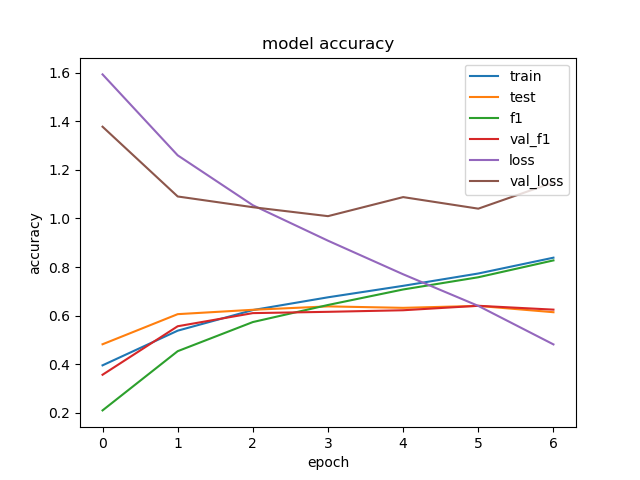
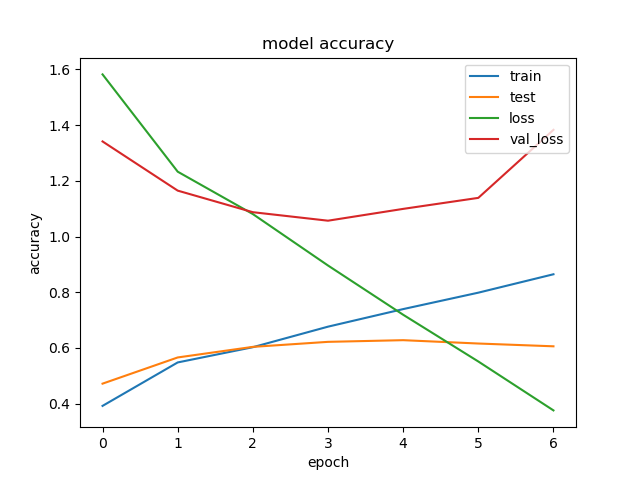
final commitgit add .

diff --git a/src/back_end/LSTM_ensemble.py b/src/back_end/LSTM_ensemble.py
@@ -28,7 +28,7 @@ target_data = target_data[:,1:]
 
 X_train, X_test, y_train, y_test = train_test_split(text_data_set, target_data, test_size = 0.2, shuffle = False)
 
-vectorizer = CountVectorizer(strip_accents = 'ascii', lowercase = True, max_features = 6000)
+vectorizer = CountVectorizer(strip_accents = 'ascii', lowercase = True, max_features = 7500)
 X_train_onehot = vectorizer.fit_transform(X_train)
 
 word2idx = {word: idx for idx, word in enumerate(vectorizer.get_feature_names())}
@@ -154,7 +154,7 @@ reduce_lr = ReduceLROnPlateau(monitor='val_loss', factor=0.2,
 early_stop = EarlyStopping(monitor='val_loss', patience = 3)
 
 history = model.fit(X_train_sequences[:-500], y_train[:-500], 
-              epochs=8, batch_size=32, verbose=1, 
+              epochs=10, batch_size=32, verbose=1, 
               validation_data=(X_train_sequences[-500:], y_train[-500:]),
               shuffle = True,
               callbacks = [checkpointer, reduce_lr, early_stop])
@@ -174,14 +174,12 @@ def plot_train_history_accuracy(history):
     # summarize history for loss
     plt.plot(history.history['acc'])
     plt.plot(history.history['val_acc'])
-    plt.plot(history.history['f1'])
-    plt.plot(history.history['val_f1'])
     plt.plot(history.history['loss'])
     plt.plot(history.history['val_loss'])
     plt.title('model accuracy')
     plt.ylabel('accuracy')
     plt.xlabel('epoch')
-    plt.legend(['train', 'test', 'f1', 'val_f1', 'loss', 'val_loss'], loc='upper right')
+    plt.legend(['train', 'test', 'loss', 'val_loss'], loc='upper right')
     plt.show()
 
 plot_train_history_accuracy(history)
